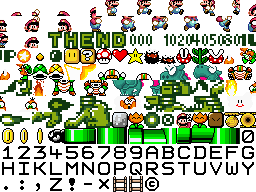
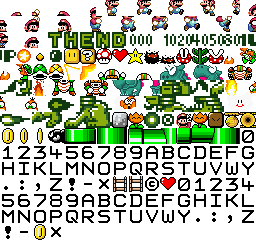
Semi-transparent BG for window tiles

diff --git a/src/ppu.js b/src/ppu.js
@@ -491,7 +491,7 @@ class SuperMarioLandPPU extends PPU {
             for (let x = 0; windowX + 8 * x < 160; x++) {
                 const tileIndex = this.mmu.memory[windowTileMapOffset + x];
                 const tileOffset = _ff40 & 0x10 ? 0x8000 + tileIndex * 16 : 0x9000 + (tileIndex << 24 >> 24) * 16;
-                this.drawTile(tileOffset, 8 * x + windowX, this.windowY, 2, 2);
+                this.drawTile(tileOffset, 8 * x + windowX, this.windowY, 2, 4);
             }
         }
         this.windowY = undefined;

diff --git a/remake/main.py b/remake/main.py
@@ -154,4 +154,4 @@ def make_data(root_dir, page_sets):
 
 
 if __name__ == '__main__':
-    make_data("SUPER MARIOLAND", ("level-00", "pipe", "title", "bonus"))
+    make_data("SUPER MARIOLAND", ("level-00", "pipe", "title", "bonus", "window"))
